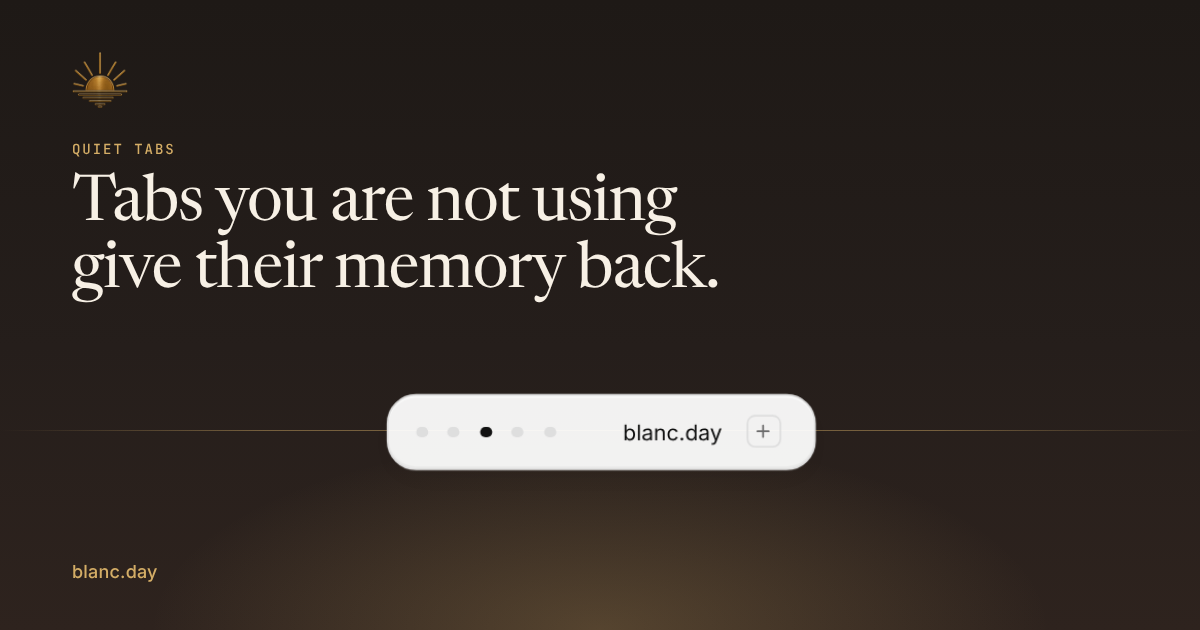
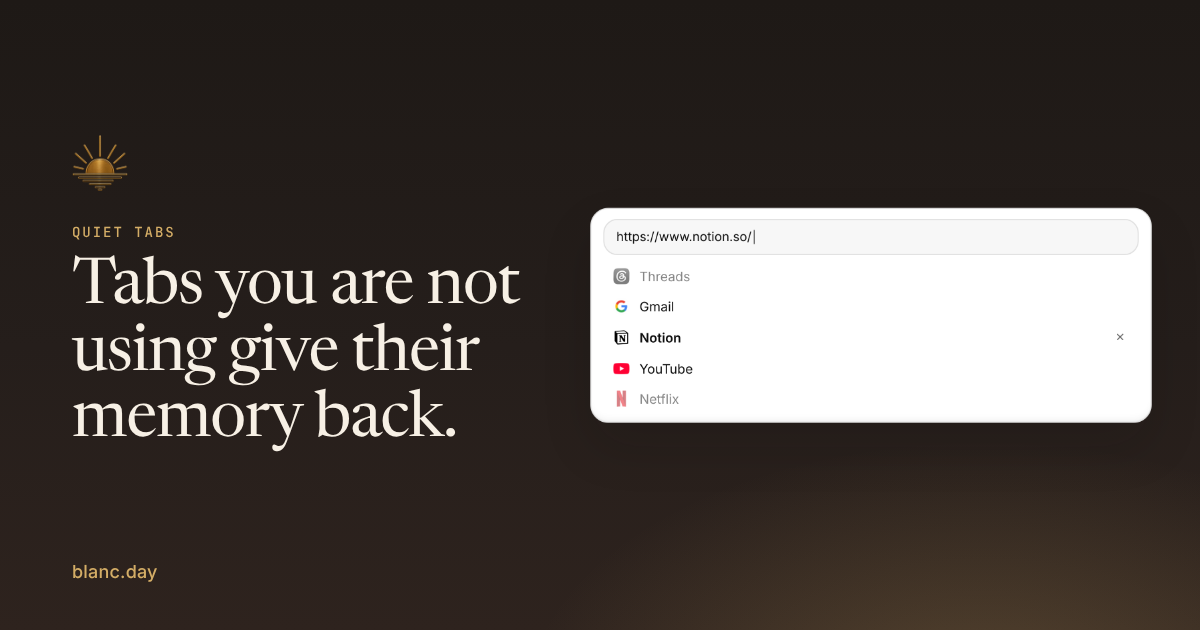
Show quiet tabs as dimmed rows on the Quiet Tabs page (v1.34.0)
The Quiet Tabs page drew a resting Island with five tab dots and said two
of them were "drawn as smaller quiet cores". Public v1.34.0 never marks
quiet tabs on the dots: renderer.js says a dot "is a switch target, not a
status field", and quiet-tabs-chrome.test.js at the tag asserts no dot
treatment. The site had no rule for `.dots > span.quiet` either, so the
dots looked identical while the caption and alt text said otherwise.

The figure is now the expanded Island's tab list with two rows dimmed
through the existing `.trow.quiet`, which mirrors v1.34.0's
`.island-row.quiet { opacity: .5 }`. The current tab is bold with its
close button showing, under an address field holding its address, as the
app draws it. The caption, aria-label and ogImageAlt describe dimmed
rows, and a shorter figure height fits the five-row list.

The share card now shoots the panel figure, so it uses the panel-beside-
the-copy layout and keeps its dark surface. It was re-rendered with
render-og-cards.mjs --only=feature-quiet-tabs.png.

No claims ledger held the old figure wording. The new wording is
recorded in docs/website-v1.34-claims.json against v1.34.0 evidence, with
the retired wording under supersededClaims, and the caption change is a
reviewed copy update in the v1.27 revamp ledger, as the retained-pages
test requires.

Claude-Session: https://claude.ai/code/session_01YHNafxKd4BHMZqffmudybt

diff --git a/site/src/styles/site.css b/site/src/styles/site.css
@@ -1003,6 +1003,10 @@ a:focus-visible, button:focus-visible { outline: 2px solid var(--site-accent); o
    .demo-stage breakpoints by source order. */
 .island-figure { width: 100%; height: 300px; max-width: none; margin: 0; border: 0; border-radius: 8px; box-shadow: none; }
 .island-figure--panel { height: 456px; }
+/* Quiet Tabs figure: five rows of the expanded Island, two of them dimmed as
+   quiet (.trow.quiet), the app's only quiet treatment. A short list needs
+   less page beneath it than the full panel figures. */
+.island-figure--panel.island-figure--quiet { height: 340px; }
 
 /* A compact rendering of the current shield popover. The app anchors this
    beneath the island; showing it in the capture makes the newer interaction
@@ -1156,6 +1160,7 @@ a:focus-visible, button:focus-visible { outline: 2px solid var(--site-accent); o
   .island-figure { height: 244px; --fig-strip-h: 49px; }
   .island-figure--panel { height: 360px; }
   .island-figure--site-controls { height: 290px; }
+  .island-figure--panel.island-figure--quiet { height: 300px; }
   .island-figure .demo-island .panel { width: 94%; max-height: 316px; }
   /* The narrow pill has already shed its flanking chrome (≤560px), so it is
      much smaller — scale it less so it doesn't shrink into illegibility. */
